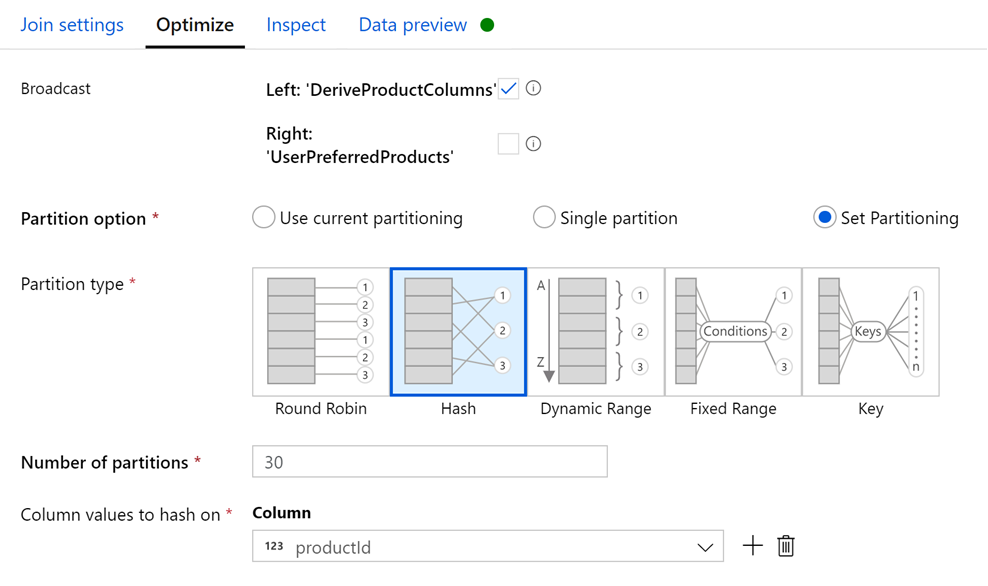
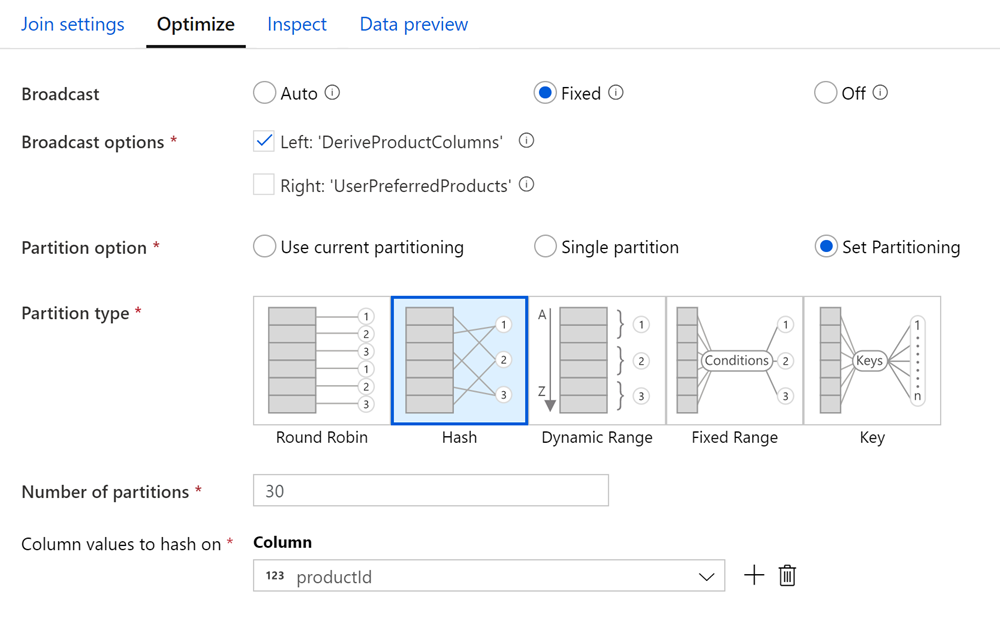
Removed data flow debug portions

diff --git a/day-01/lab02-data-integration-part-2.md b/day-01/lab02-data-integration-part-2.md
@@ -672,24 +672,24 @@ The query results output includes the standard Table view, as well as a Chart vi
     - **Output stream name**: Enter `UserPreferredProducts`.
     - **Incoming stream**: Select `UserProfiles`.
     - **Unroll by**: Select `[] preferredProducts`.
-    - **Input columns**: Provide the following information:
+    - **Input columns**: Provide the following information. Be sure to **delete** `cartId` and `[] productReviews`:
 
         | UserProfiles's column | Name as |
         | --- | --- |
         | userId | `userId` |
-        | preferredProducts | `preferredProductId` |
+        | [] preferredProducts | `preferredProductId` |
 
     ![The flatten settings are configured as described.](media/data-flow-user-profiles-flatten2-settings.png "Flatten settings")
 
-21. Select **Data preview** and select **Refresh** to display the data. You should now see a flattened view of the data source with one or more rows per `userId`.
+    These settings provide a flattened view of the data source with one or more rows per `userId`. Using data preview requires you to enable Debug mode, which we are not enabling for this lab. *The following screenshot is for illustration only*:
 
     ![The data preview tab is displayed with a sample of the file contents.](media/data-flow-user-profiles-flatten2-data-preview.png "Data preview")
 
-22. Now it is time to join the two data sources. Select the **+** to the right of the `DeriveProductColumns` step, then select the **Join** option from the context menu.
+21. Now it is time to join the two data sources. Select the **+** to the right of the `DeriveProductColumns` step, then select the **Join** option from the context menu.
 
     ![The plus sign and new Join menu item are highlighted.](media/data-flow-user-profiles-new-join.png "New Join")
 
-23. Under **Join settings**, configure the following:
+22. Under **Join settings**, configure the following:
 
     - **Output stream name**: Enter `JoinTopProductsWithPreferredProducts`.
     - **Left stream**: Select `DeriveProductColumns`.
@@ -703,9 +703,10 @@ The query results output includes the standard Table view, as well as a Chart vi
 
     ![The join settings are configured as described.](media/data-flow-user-profiles-join-settings.png "Join settings")
 
-24. Select **Optimize** and configure the following:
+23. Select **Optimize** and configure the following:
 
-    - **Broadcast**: Check `Left: 'DeriveProductColumns'`.
+    - **Broadcast**: Select `Fixed`.
+    - **Broadcast options**: Check `Left: 'DeriveProductColumns'`.
     - **Partition option**: Select `Set partitioning`.
     - **Partition type**: Select `Hash`.
     - **Number of partitions**: Enter `30`.
@@ -715,19 +716,19 @@ The query results output includes the standard Table view, as well as a Chart vi
 
     <!-- **TODO**: Add optimization description. -->
 
-25. Select the **Inspect** tab to see the join mapping, including the column feed source and whether the column is used in a join.
+24. Select the **Inspect** tab to see the join mapping, including the column feed source and whether the column is used in a join.
 
     ![The inspect blade is displayed.](media/data-flow-user-profiles-join-inspect.png "Inspect")
 
-26. Select **Data preview** and select **Refresh** to display the data. In this small sample of data, likely the `userId` and `preferredProductId` columns will only show null values. If you want to get a sense of how many records contain values for these fields, select a column, such as `preferredProductId`, then select **Statistics** in the toolbar above. This displays a chart for the column showing the ratio of values.
+    **For illustrative purposes of data preview only:** Since we are not turning on data flow debugging, do not perform this step. In this small sample of data, likely the `userId` and `preferredProductId` columns will only show null values. If you want to get a sense of how many records contain values for these fields, select a column, such as `preferredProductId`, then select **Statistics** in the toolbar above. This displays a chart for the column showing the ratio of values.
 
     ![The data preview results are shown and the statistics for the preferredProductId column is displayed as a pie chart to the right.](media/data-flow-user-profiles-join-preview.png "Data preview")
 
-27. Select the **+** to the right of the `JoinTopProductsWithPreferredProducts` step, then select the **Derived Column** schema modifier from the context menu.
+25. Select the **+** to the right of the `JoinTopProductsWithPreferredProducts` step, then select the **Derived Column** schema modifier from the context menu.
 
     ![The plus sign and Derived Column schema modifier are highlighted.](media/data-flow-user-profiles-new-derived-column3.png "New Derived Column")
 
-28. Under **Derived column's settings**, configure the following:
+26. Under **Derived column's settings**, configure the following:
 
     - **Output stream name**: Enter `DerivedColumnsForMerge`.
     - **Incoming stream**: Select `JoinTopProductsWithPreferredProducts`.
@@ -742,15 +743,15 @@ The query results output includes the standard Table view, as well as a Chart vi
 
     ![The derived column's settings are configured as described.](media/data-flow-user-profiles-derived-column3-settings.png "Derived column's settings")
 
-29. Select **Data preview** and select **Refresh** to display the data and verify the derived column settings.
+    The derived column settings provide the following result:
 
     ![The data preview is displayed.](media/data-flow-user-profiles-derived-column3-preview.png "Data preview")
 
-30. Select the **+** to the right of the `DerivedColumnsForMerge` step, then select the **Sink** destination from the context menu.
+27. Select the **+** to the right of the `DerivedColumnsForMerge` step, then select the **Sink** destination from the context menu.
 
     ![The new Sink destination is highlighted.](media/data-flow-user-profiles-new-sink.png "New sink")
 
-31. Under **Sink**, configure the following:
+28. Under **Sink**, configure the following:
 
     - **Output stream name**: Enter `UserTopProductPurchasesASA`.
     - **Incoming stream**: Select `DerivedColumnsForMerge`.
@@ -759,7 +760,7 @@ The query results output includes the standard Table view, as well as a Chart vi
 
     ![The sink settings are shown.](media/data-flow-user-profiles-new-sink-settings.png "Sink settings")
 
-32. Select **Settings**, then configure the following:
+29. Select **Settings**, then configure the following:
 
     - **Update method**: Check `Allow insert` and leave the rest unchecked.
     - **Table action**: Select `Truncate table`.
@@ -767,7 +768,7 @@ The query results output includes the standard Table view, as well as a Chart vi
 
     ![The settings are shown.](media/data-flow-user-profiles-new-sink-settings-options.png "Settings")
 
-33. Select **Mapping**, then configure the following:
+30. Select **Mapping**, then configure the following:
 
     - **Auto mapping**: `Uncheck` this option.
     - **Columns**: Provide the following information:
@@ -775,18 +776,18 @@ The query results output includes the standard Table view, as well as a Chart vi
         | Input columns | Output columns |
         | --- | --- |
         | userId | UserId |
-        | productId | ProductId |
+        | DerivedColumnsForMerge@productId | ProductId |
         | itemsPurchasedLast12Months | ItemsPurchasedLast12Months |
         | isTopProduct | IsTopProduct |
         | isPreferredProduct | IsPreferredProduct |
 
     ![The mapping settings are configured as described.](media/data-flow-user-profiles-new-sink-settings-mapping.png "Mapping")
 
-34. Your completed data flow should look similar to the following:
+31. Your completed data flow should look similar to the following:
 
     ![The completed data flow is displayed.](media/data-flow-user-profiles-complete.png "Completed data flow")
 
-35. Select **Publish all** to save your new data flow.
+32. Select **Publish all** to save your new data flow.
 
     ![Publish all is highlighted.](media/publish-all-1.png "Publish all")
 
